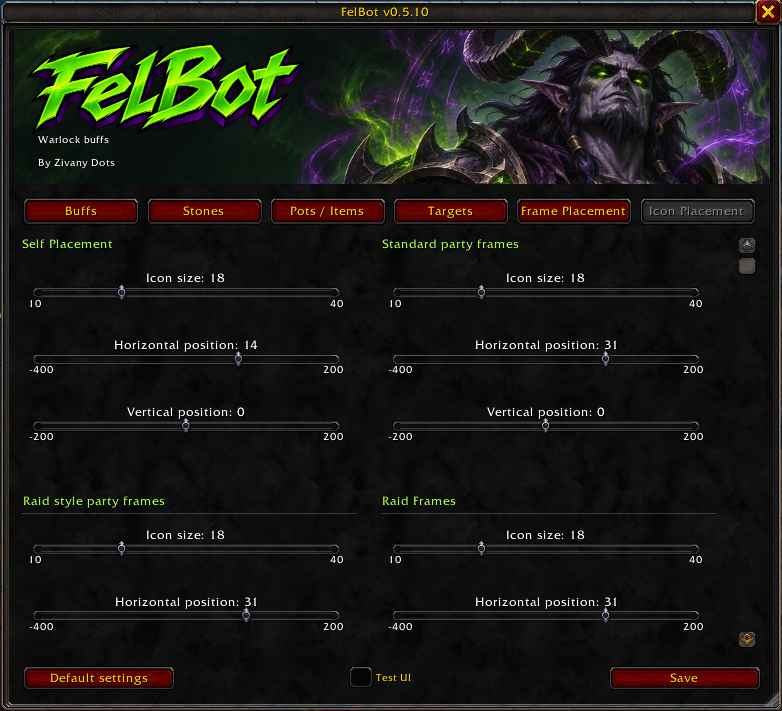
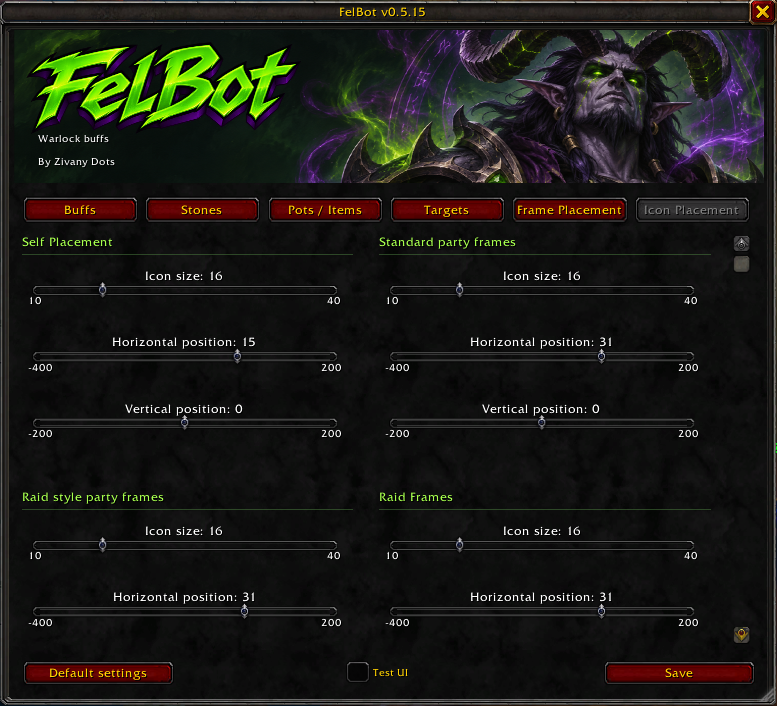
Refresh 0.5.15 screenshots for release

diff --git a/README.md b/README.md
@@ -23,8 +23,6 @@ It supports the player frame, standard party frames, raid-style party frames and
 
 See the [full changelog](CHANGELOG.md) for details.
 
-**Screenshot note:** the Buffs screenshot shows 0.5.15. The other supplied images currently illustrate the earlier 0.5.10 interface and may differ from the current arrangement; the text describes 0.5.15.
-
 ## Installation
 
 Download **FelBot-0.5.15.zip** from the [0.5.15 release](https://github.com/zivanydots/FelBot/releases/tag/v0.5.15). Close WoW, then extract the **FelBot** folder into your Forever client's **Interface/AddOns** directory, replacing the existing addon folder. Restart WoW after updating so the new addon-list icon loads. Your saved settings remain in the game's WTF folder.
@@ -60,8 +58,6 @@ The **Frame buff modifier** defaults to **Shift**. Hold it and click a unit fram
 The **Soulstone frame modifier** defaults to **Ctrl**. A different modifier lets you create or use Soulstone directly, bypassing the regular buff queue. If both modifiers are the same, self Soulstone follows Buff Order Queue; party frames apply their missing regular buffs before Soulstone.
 
 The **Keyboard shortcut** section shows your current self-queue bindings. Each key press applies the next eligible action in the order defined by Buff Order Queue. Click **Set binding**, then press a key with optional Shift, Ctrl or Alt; Escape cancels. This replaces the primary key and keeps alternate keys. **Clear bindings** removes all FelBot keys. Changes apply only when you click **Save**, using your active game binding profile; discarding settings leaves the game bindings unchanged. Keys assigned to another action are rejected. You can also use **Keybindings → FelBot → Activate FelBot (Buff Order Queue)** in the game settings. Binding edits and queue shortcuts remain out of combat.
-
-![FelBot keyboard binding in the game keybindings menu](Artwork/FelBiot%200.5.15%20Screenshots/FelBot%20v0_5_15%20Keybindings.png)
 
 ### Buff Order Queue
 

diff --git a/Artwork/README.md b/Artwork/README.md
@@ -15,4 +15,4 @@ The custom artwork is covered by the project's MIT licence. Blizzard spell and i
 
 ## 0.5.15 screenshots
 
-The current README uses the supplied images in `FelBiot 0.5.15 Screenshots` (the supplied folder name is preserved). The Buffs image shows 0.5.15. The other eleven images reuse the earlier 0.5.10 captures; the guide notes this so older layouts are not presented as new screenshots.
+The current README uses the eleven supplied images in `FelBiot 0.5.15 Screenshots` (the supplied folder name is preserved). They show the updated 0.5.15 settings and in-game frame examples. Keyboard bindings are illustrated in the Buffs screenshot.
